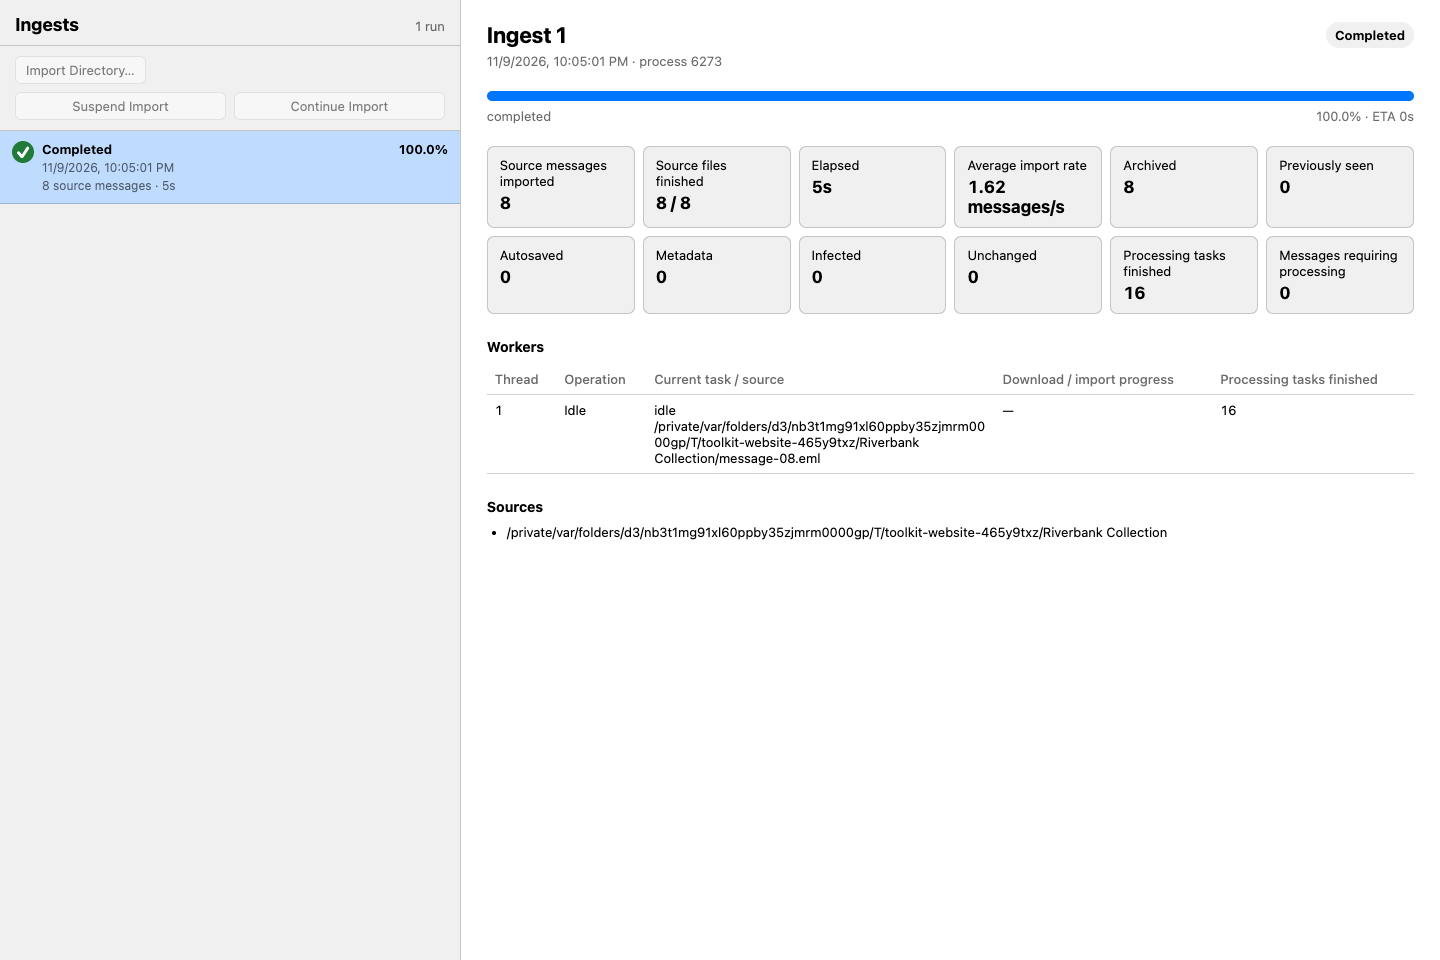
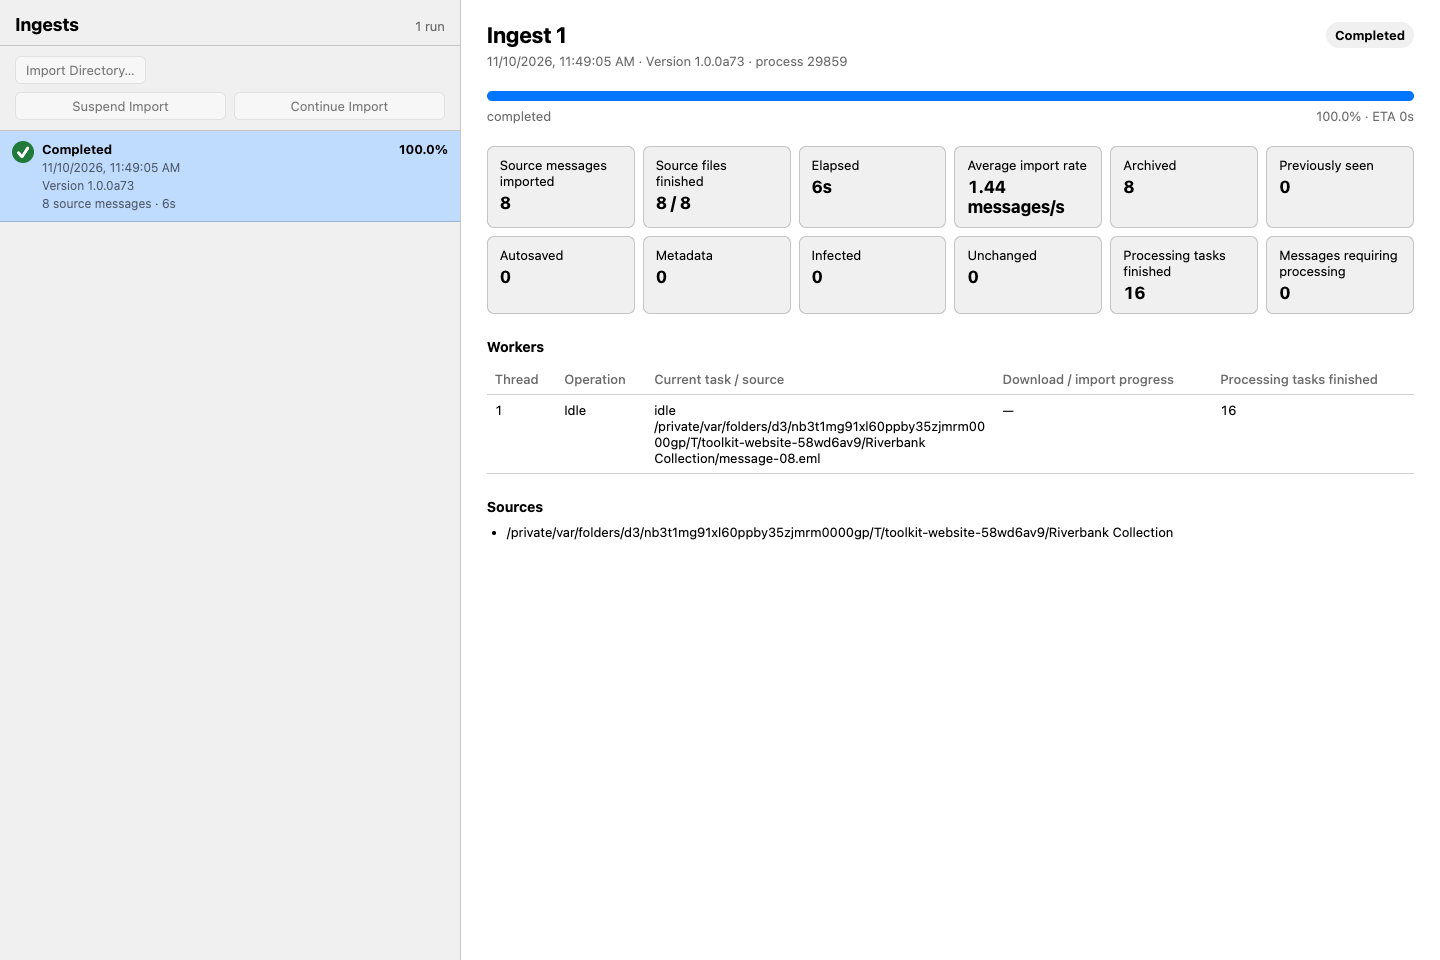
Show the producing application version in ingest history
Capture the launch version once, persist it with new run snapshots, and show
it in history rows and details. Preserve old history with an explicit unavailable
label and verify attribution survives metadata replacement. Advance to alpha73.

diff --git a/gui/ingests.js b/gui/ingests.js
@@ -196,14 +196,21 @@ function historyRow(status) {
   const time = document.createElement("span");
   time.className = "history-time";
   time.textContent = new Date(status.started_at).toLocaleString();
+  const version = document.createElement("span");
+  version.className = "history-version";
+  version.textContent = runVersion(status);
   const summary = document.createElement("span");
   summary.className = "history-summary";
   summary.textContent = `${processingMode(status) ? `${integer(status.processing_jobs_completed)} processing tasks finished`
     : `${integer(status.processed_messages)} source messages`} · ${formatDuration(status.elapsed_seconds)}`;
-  main.append(title, time, summary);
+  main.append(title, time, version, summary);
   row.append(dot, main);
   row.addEventListener("click", () => { selectedStatusId = status.status_id; render(); });
   return row;
+}
+
+function runVersion(status) {
+  return status.application_version ? `Version ${status.application_version}` : "Version unavailable";
 }
 
 function renderDetail(status) {
@@ -222,7 +229,7 @@ function renderDetail(status) {
   const title = document.createElement("h1");
   title.textContent = `Ingest ${status.run_pk}`;
   const subtitle = document.createElement("p");
-  subtitle.textContent = `${new Date(status.started_at).toLocaleString()} · process ${status.process_id}`;
+  subtitle.textContent = `${new Date(status.started_at).toLocaleString()} · ${runVersion(status)} · process ${status.process_id}`;
   if (status.scan_policy === "not-scanned") {
     subtitle.textContent += " · WARNING: imported without antivirus scanning";
     subtitle.className = "failure";

diff --git a/gui/ingests.css b/gui/ingests.css
@@ -41,7 +41,7 @@ body { display: flex; flex-direction: column; }
 .history-main { min-width: 0; }
 .history-title { display: flex; justify-content: space-between; gap: 6px; font-weight: 650; }
 .history-state { text-transform: capitalize; }
-.history-time, .history-summary { display: block; margin-top: 3px; overflow: hidden; color: var(--muted); text-overflow: ellipsis; white-space: nowrap; font-size: 12px; }
+.history-time, .history-version, .history-summary { display: block; margin-top: 3px; overflow: hidden; color: var(--muted); text-overflow: ellipsis; white-space: nowrap; font-size: 12px; }
 .ingest-detail { min-width: 0; overflow: auto; padding: 22px 26px 40px; }
 .detail-heading { display: flex; align-items: flex-start; justify-content: space-between; gap: 18px; }
 .detail-heading h1 { margin: 0 0 5px; font-size: 22px; }

diff --git a/e2e_tests/test_ingest_diagnostics.py b/e2e_tests/test_ingest_diagnostics.py
@@ -1,16 +1,50 @@
 # Copyright (C) 2026 Simson L. Garfinkel. All Rights Reserved.
+# Exercise saved failure diagnostics through the actual Ingests browser interface.
+# Synthetic imports and snapshots provide source context and version attribution.
+# Historical versions must survive viewing under a different application version.
+# Legacy snapshots remain readable without inventing missing producer metadata.
+# Assertions inspect visible text and ensure history reads never rewrite evidence.
+# No test accesses personal mail, credentials or a real canonical archive.
 
 """Requirement: local failure evidence is readable in the real Ingests interface."""
 
 from pathlib import Path
+import json
 
 import pytest
 from playwright.sync_api import Page, expect
 
 from mailarchiver.__main__ import IngestRequest, ProgressReporter, run_ingest
 from mailarchiver.gui_app import GUI_DIRECTORY, IngestWindowApi
-from mailarchiver.ingest_status import IngestStatusFile
+from mailarchiver.ingest_status import IngestStatusFile, read_ingest_history
+from mailarchiver.identity import APPLICATION_VERSION
 from scripts.website_screenshots import bridge
+
+APPLICATION_VERSION_FIELD = "application_version"
+
+
+@pytest.mark.parametrize("recorded_version", ["0.0.0+synthetic-history", None])
+def test_failed_run_shows_recorded_version_or_unavailable(tmp_path: Path, page: Page, recorded_version: str | None) -> None:
+    """DESKTOP: failures show their producer's version; legacy files never inherit the viewer's."""
+    archive = tmp_path / "synthetic.mailarchive"
+    saved = IngestStatusFile(archive, "ingest-version-fixture")
+    progress = ProgressReporter(1, status_file=saved, archive=archive, run_pk=1, terminal=False)
+    progress.finish("failed", "Synthetic failure retained for version attribution")
+    payload = json.loads(saved.path.read_text())
+    if recorded_version is None:
+        del payload[APPLICATION_VERSION_FIELD]
+    else:
+        payload[APPLICATION_VERSION_FIELD] = recorded_version
+    saved.path.write_text(json.dumps(payload))
+    original = saved.path.read_bytes()
+    bridge(page, IngestWindowApi(archive), ("history", "antivirus", "can_import_directory"))
+    page.goto((GUI_DIRECTORY / "ingests.html").as_uri())
+    label = f"Version {recorded_version}" if recorded_version else "Version unavailable"
+    expect(page.locator(".history-version")).to_have_text(label)
+    expect(page.locator(".detail-heading")).to_contain_text(label)
+    expect(page.locator("div.failure")).to_contain_text("Synthetic failure retained")
+    assert saved.path.read_bytes() == original
+    page.screenshot(path=str(tmp_path / "failed-run-version.png"), full_page=True)
 
 
 def test_invalid_configuration_shows_warning_and_saved_history(tmp_path: Path, page: Page) -> None:
@@ -68,10 +102,12 @@ def test_long_failure_detail_wraps_without_hiding_source_or_traceback(tmp_path: 
         run_ingest(IngestRequest(
             archive=archive, roots=[str(source)], owner_names_file=owners, scan_policy="not-scanned",
         ), terminal=False)
+    assert read_ingest_history(archive).statuses[0].application_version == APPLICATION_VERSION
     page.set_viewport_size({"width": 1000, "height": 900})
     bridge(page, IngestWindowApi(archive), ("history", "antivirus", "can_import_directory"))
     page.goto((GUI_DIRECTORY / "ingests.html").as_uri())
     failure = page.locator("div.failure")
+    expect(page.locator(".history-version")).to_have_text(f"Version {APPLICATION_VERSION}")
     expect(failure).to_contain_text("Traceback (most recent call last)")
     expect(failure).to_contain_text("Message SHA-256:")
     expect(failure).to_contain_text(str(source))

diff --git a/tests/test_build_info.py b/tests/test_build_info.py
@@ -81,7 +81,7 @@ def test_discovery_does_not_guess_from_parent_or_environment(checkout: Path, tmp
 
 
 def test_about_keeps_launch_version_after_installed_metadata_changes(tmp_path: Path) -> None:
-    """An editable reinstall must not relabel a running process as the new code."""
+    """DESKTOP: editable reinstalls must not relabel About or a run's eventual failure."""
     initial = version("mailarchiver")
     parsed = Version(initial)
     replacement = f"{parsed.major}.{parsed.minor}.{parsed.micro + 1}"
@@ -93,11 +93,22 @@ from pathlib import Path
 from importlib.metadata import version
 sys.path.insert(0, sys.argv[1])
 from mailarchiver.gui_app import application_metadata
+from mailarchiver.__main__ import ProgressReporter
+from mailarchiver.ingest_status import IngestStatusFile, read_ingest_history
 assert application_metadata().version == sys.argv[2]
+archive = Path(sys.argv[1], 'archive')
+progress = ProgressReporter(1, status_file=IngestStatusFile(archive, 'ingest-launch-version'),
+    archive=archive, run_pk=1, terminal=False)
+progress.start()
+assert read_ingest_history(archive).statuses[0].application_version == sys.argv[2]
 Path(sys.argv[1], 'mailarchiver.dist-info/METADATA').write_text(
     f'Name: mailarchiver\\nVersion: {sys.argv[3]}\\n', encoding='utf-8')
 assert version('mailarchiver') == sys.argv[3]
 assert application_metadata().version == sys.argv[2]
+progress.finish('failed', 'synthetic failure after metadata replacement')
+status = read_ingest_history(archive).statuses[0]
+assert status.state == 'failed'
+assert status.application_version == sys.argv[2]
 """
     subprocess.run([sys.executable, "-c", code, str(tmp_path), initial, replacement],
                    check=True, capture_output=True, text=True, timeout=20)

diff --git a/src/mailarchiver/gui_app.py b/src/mailarchiver/gui_app.py
@@ -33,7 +33,6 @@ from contextlib import contextmanager, nullcontext
 from collections.abc import Callable, Iterator
 from datetime import UTC, datetime
 from importlib import import_module
-from importlib.metadata import version
 from pathlib import Path
 from queue import Empty, SimpleQueue
 from threading import Event, Lock, RLock, Thread
@@ -48,7 +47,7 @@ from webview.menu import Menu, MenuAction, MenuSeparator
 
 from .file_drag import FILE_DRAGS, install_file_drag
 from .desktop_platform import copy_windows_text, drag_windows_file, open_export, open_external_url, refresh_windows_menu, set_macos_document_path, set_macos_titlebar_version, startup_error, windows_webview
-from .identity import APPLICATION_NAME
+from .identity import APPLICATION_NAME, APPLICATION_VERSION
 from .build_info import BUILD_INFO, BuildInfo
 from .worker_preferences import WorkerPreferences, WorkerSettings, worker_argument
 from .imap_protocol import ImapAuthenticationError, ImapPaused, ImapSession
@@ -123,7 +122,6 @@ GUI_DIRECTORY = (Path(getattr(sys, "_MEIPASS")) if getattr(sys, "frozen", False)
 E2E_DRIVER = Path(__file__).parents[2] / "e2e_tests" / "gui_driver.js"
 DEFAULT_PAGE_SIZE = 100
 APPLICATION_ICON = GUI_DIRECTORY / "icons" / "rainbow-post-192.png"
-APPLICATION_VERSION = version("mailarchiver")
 EXTERNAL_LINK_SCHEMES = frozenset({"http", "https", "mailto"})
 INTERNET_CHECK_URL = "https://www.example.com/"
 QUIT_TIMEOUT_SECONDS = 5.0

diff --git a/src/mailarchiver/identity.py b/src/mailarchiver/identity.py
@@ -2,10 +2,10 @@
 
 """Public application identity and read-only discovery of existing settings.
 
-Purpose: Define public application names and per-user data locations.
+Purpose: Define public application names, launch version and per-user data locations.
 
 How it works:
-Centralize current and legacy identity conventions used to find settings outside archives.
+Capture the installed version once and centralize names used to find settings outside archives.
 
 Fundamental dependents:
 
@@ -13,9 +13,11 @@ Fundamental dependents:
 - ``clamav_definitions``: antivirus updates use the same per-user identity boundary.
 """
 
+from importlib.metadata import version
 from pathlib import Path
 
 APPLICATION_NAME = "Email Collection Toolkit"
+APPLICATION_VERSION = version("mailarchiver")
 DEVELOPMENT_BUNDLE_IDENTIFIER = "net.simson.mailarchiver.development"
 # Preserve access to settings created under the former two-word product name.
 LEGACY_DIRECTORY_NAME = " ".join(("Mail", "Archiver"))

diff --git a/src/mailarchiver/__main__.py b/src/mailarchiver/__main__.py
@@ -51,6 +51,7 @@ from .scan_evidence import ScanEvidence, ScanFailure
 from .future_coordinator import BoundedWorkers, FutureCoordinator, WORKER_NUMBER
 from .application import configured_imap_connections, configured_workers, validate_ingest_paths
 from .configuration_diagnostics import ConfigurationError
+from .identity import APPLICATION_VERSION
 from .imap_source import IMAP_BUSY_PHASE
 from .imap_preferences import ImapConnectionLimit
 from .worker_preferences import half_cpus, worker_argument
@@ -1044,6 +1045,7 @@ class ProgressReporter:
             archive=str(self.status_archive.resolve()),
             run_pk=self.status_run_pk,
             process_id=os.getpid(),
+            application_version=APPLICATION_VERSION,
             source_roots=self.status_source_roots,
             started_at=state.started_at,
             updated_at=updated_at,

diff --git a/src/mailarchiver/ingest_status.py b/src/mailarchiver/ingest_status.py
@@ -88,6 +88,7 @@ class IngestStatus(BaseModel):
     archive: str
     run_pk: int
     process_id: int
+    application_version: str | None = None
     source_roots: list[str]
     started_at: datetime
     updated_at: datetime

diff --git a/doc/implementation/DESKTOP.md b/doc/implementation/DESKTOP.md
@@ -484,7 +484,12 @@ on font-dependent fixture height or iframe load timing to create overflow.
 Native archive/status change notifications trigger the main window to read
 the latest shared `IngestStatus` into its bottom status line. The separate
 `ingests.html` application reads all typed status files on those same events and presents run history beside aggregate and
-per-worker detail. Both the status-line action and the native
+per-worker detail. **Version** labels use the snapshot's optional `application_version`, recorded
+from `identity.APPLICATION_VERSION` by the producer. The launch version is read
+once from installed metadata and shared with About/title bars, so editable
+reinstalls cannot relabel a later failure. Missing legacy versions display
+**Version unavailable**; history reading preserves the original JSON.
+Both the status-line action and the native
 **Window → Ingests** menu route through a per-document singleton window owner: an existing
 window is restored and ordered to the front, while a closed one is recreated
 with its own normal close box. A running snapshot remains live while its producer PID is alive. After that

diff --git a/doc/requirements/DESKTOP.md b/doc/requirements/DESKTOP.md
@@ -59,6 +59,10 @@ History status circles are at least 22 pixels, with a check for running/complete
 an X for failed/disk-full/stale, and a pause symbol for interrupted runs, alongside
 text labels. Accepted GUI imports show startup immediately while archive
 preparation precedes the first saved run snapshot; old failures retain their state.
+Each saved run must retain the application version captured at producer launch,
+including a later failure. Show it in the history entry and selected run details.
+An editable reinstall or a newer history viewer must not relabel a saved run.
+Older snapshots without a version display **Version unavailable**, without rewriting them.
 Explain that finished processing jobs are work for messages or MIME parts,
 potentially several per email, rather than newly imported message counts.
 Label saved work **Processing saved mail**. During processing stages, including

diff --git a/doc/RELEASE_NOTES.md b/doc/RELEASE_NOTES.md
@@ -6,6 +6,13 @@ Entries describe their recorded revisions. For current behavior use the
 [user manual](USER_MANUAL.md) and [CLI reference](CLI_REFERENCE.md). Retired
 Rust delivery plans and historical package checks are not current acceptance.
 
+## 1.0.0a73 — record the version behind each import result
+
+- Save the producer's launch application version with every ingest snapshot and
+  display it in the history entry and run details, including failures.
+- Keep saved versions stable after an application update. Older history without
+  recorded version evidence displays **Version unavailable** and remains unchanged.
+
 ## 1.0.0a72 — dependency security updates
 
 - Update the PST downloader's ZIP reader to the patched 9.x line and reject

diff --git a/doc/implementation.md b/doc/implementation.md
@@ -39,6 +39,8 @@ than a second change log. Platform acceptance is stated alongside its evidence.
   and evidence; no resident service or manual-review gate is introduced.
 - Jobs, windows and import progress follow actual work and change notifications.
   Failure deadlines remain explicit; readiness must be observed.
+  Ingest snapshots record the shared immutable launch version. Ingests displays that
+  saved value in history and run details, with an unavailable fallback for older files.
 - User commands are `ect`, `ect-create`, `ect-import` and `ect-search`. They invoke
   application code directly. Make is the developer build/test convenience layer.
 - Versions come from `pyproject.toml`; launch/build provenance discloses local
